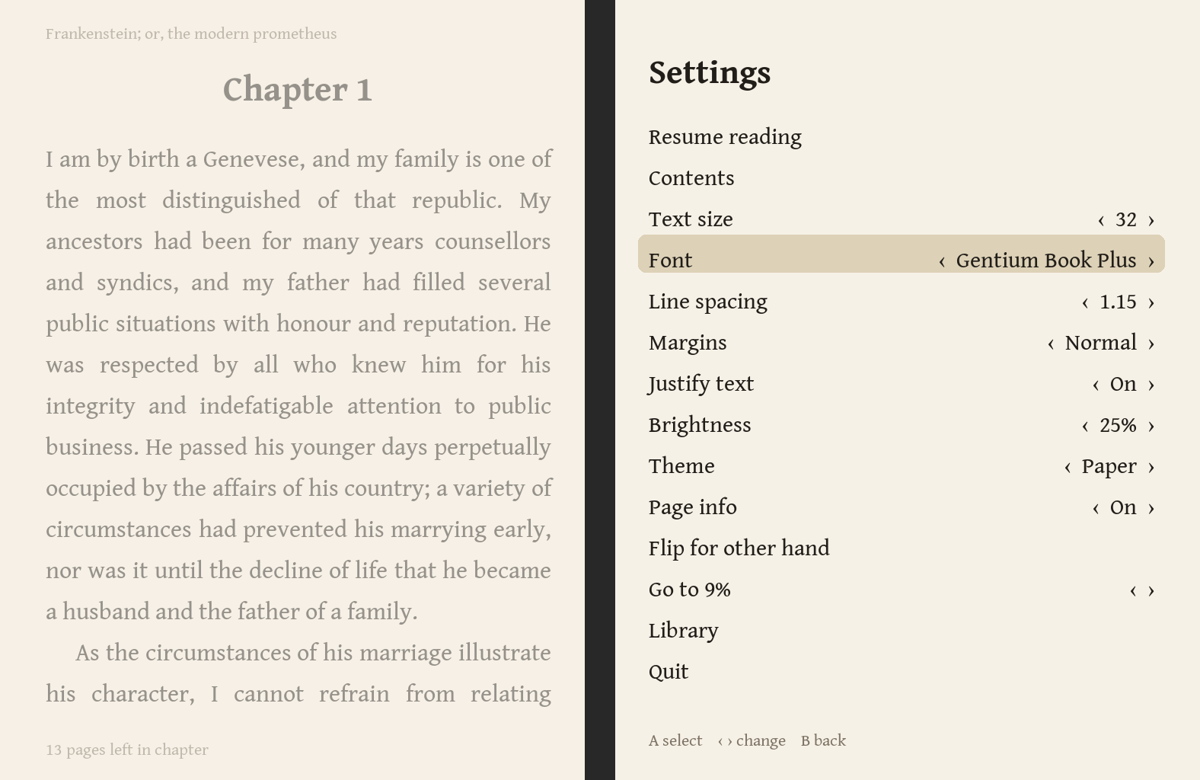
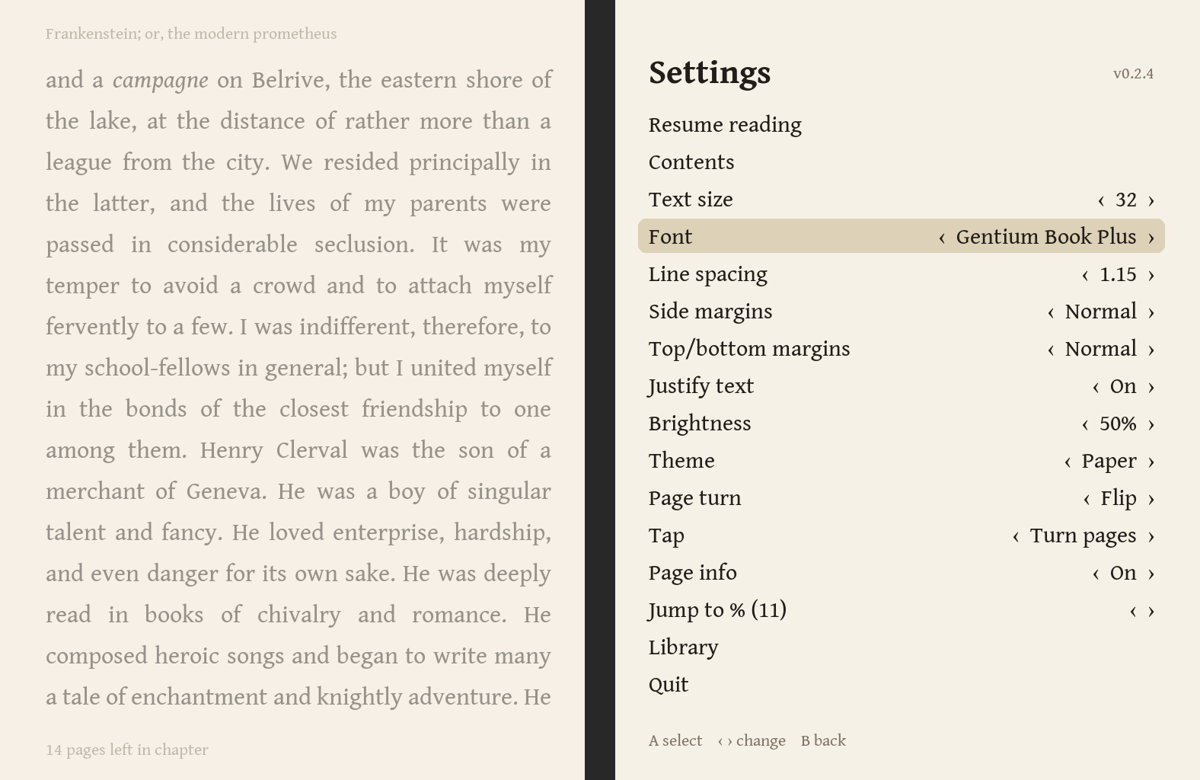
Refresh README and README.txt: accurate controls, less wordy
Rewrite both for the current controls (D-pad in menus, stick click, curved
arrow, tap default), reporting without GitHub access, and a current Settings
screenshot. Drop the old Book Reader note. Add keyprobe stubs for desktop runs.

diff --git a/README.md b/README.md
@@ -1,85 +1,65 @@
 # eReaderDS for the RG DS Plus
 
-A two-page ebook reader for the **Anbernic RG DS Plus**. Turn the device
-sideways, like an open book, and each screen shows one page.
+A two-page ebook reader for the **Anbernic RG DS Plus**. Hold the device
+sideways like an open book, and each screen shows one page.
 
 ![Reading, held sideways](docs/screenshots/reading.png)
 
-> **Made for the RG DS Plus on its stock firmware**, the Linux system it
-> ships with. It isn't for the original RG DS (640×480 screens), and it isn't
-> for custom firmware such as ROCKNIX or KNULLI.
-
+> **For the RG DS Plus on its stock firmware only.** It isn't for the original
+> RG DS or for custom firmware such as ROCKNIX or KNULLI.
+>
 > **This is a test release.** If something goes wrong, please
-> [report it](#reporting-problems). It only takes a minute.
+> [report it](#reporting-problems).
 
 ## Install
 
-You need an RG DS Plus on its stock firmware, its SD card, and any computer
-(Windows, Mac or Linux).
-
-1. **Download** `eReaderDS-vX.Y.Z.zip` from the
+1. Download `eReaderDS-vX.Y.Z.zip` from the
    [latest release](https://github.com/casualducko/eReaderDS-beta/releases/latest)
-   and unzip it on your computer.
-2. **Copy two items onto the card.** Open the unzipped `Ports` folder. It
-   contains `eReaderDS.sh` and a `eReaderDS` folder. Copy both into the
-   `Ports` folder on the SD card, next to your other ports.
-3. **Add books**: copy `.epub` or `.txt` files into the card's `Ebook` folder.
-4. Put the card back, then open **Ports → eReaderDS** on the device.
+   (or use the zip you were sent) and unzip it on your computer.
+2. Open the unzipped `Ports` folder and copy **`eReaderDS.sh`** and the
+   **`eReaderDS`** folder into the `Ports` folder on the SD card.
+3. Copy `.epub` or `.txt` books into the card's `Ebook` folder.
+4. On the device, open **Ports → eReaderDS**.
 
-To **update**, copy the two items from a newer release the same way and
-replace the old ones when asked. Your settings, reading positions and fonts
-are kept: they live in the `Ebook` folder (`Ebook/.ereaderds` and
-`Ebook/Fonts`), which the download never touches.
+**Updating:** copy the two items from a newer zip the same way, replacing the
+old ones. Your settings, reading positions and fonts are kept.
 
-> **Used "Book Reader" (v0.1.x)?** It's now called eReaderDS. Install it as
-> above, then delete `Ports/Book Reader.sh` and `Ports/BookReader` from the
-> card. Your settings and reading positions carry over automatically.
+> Copy the two items, not the whole `Ports` folder: on a Mac, replacing
+> `Ports` would delete your other ports.
 
-> Don't drag the whole `Ports` folder onto the card: on a Mac, choosing
-> **Replace** would remove your other ports.
+## Controls
 
-## Using it
+Hold it turned counter-clockwise: the top screen is the left page, and the
+buttons are under your right hand. Directions below are as you hold it.
 
-**Hold it** turned counter-clockwise: the top screen is the left page and the
-buttons are under your right hand.
-
-| Button | Reading | In menus |
+| Button | Reading | Menus |
 |---|---|---|
-| **R** or D-pad forward | Next two pages | Change a setting |
-| **L** or D-pad back | Previous two pages | Change a setting |
-| **R2 / L2** | Next / previous chapter | |
-| **Y** | Contents | |
-| **Start**, **Select**, **X** or **B** | Settings | Back |
-| **↩ button** (right of the Anbernic button) | Settings | Close Settings |
-| **A**, or pressing the stick in | | Select |
-| **Menu** (home) | Quit | Quit |
+| D-pad | Turn pages (right/down forward, left/up back) | Up/down move; left/right change a value (or move, on rows without one) |
+| R / L | Next / previous pages | Change a value |
+| R2 / L2 | Next / previous chapter | |
+| A, or press the stick in | | Select |
+| B | Settings | Back |
+| Start, Select, X, or the ↩ button | Settings | Close |
+| Y | Contents | |
+| Menu (Anbernic button) | Quit | Quit |
 
-The D-pad follows the way you're holding it: forward means right or down, as
-you see it. The **analog stick** works like the D-pad, one push per press;
-while reading, only left/right (as held) turn pages.
+The **analog stick** works like the D-pad. While reading, only its left/right
+turn pages.
 
-**Touch** (the bottom screen):
-
-- **Swipe** left or right to turn pages.
-- **Slide** up or down to change brightness.
-- **Tap** the right half of the page to go forward, the left half to go back.
-  Prefer taps to open Settings? Set **Settings → Tap** to **Open menu**.
+**Touch** (bottom screen): swipe left/right to turn pages, and slide up/down
+for brightness. Tapping the right or left half turns pages forward or back.
+To make a tap open Settings instead, use **Settings → Tap**.
 
 ## Features
 
-- Two-page spreads with a 3D page-flip animation (or fade, or off)
-- EPUB and plain text, with italics, bold, headings, images, covers and the
-  book's contents
-- Book-style layout: justified text, indents, and chapters that start on a
-  new page
-- Library with covers and progress. Your place in every book is saved, and
-  the last book reopens on launch
-- Settings: text size, font, line spacing, side and top/bottom margins,
-  justification, brightness, what a tap does, page info, and jump to %
-- Eleven themes: Paper, White, Sepia, Solarized, E-ink (grayscale, 16 gray
-  levels and a speckled paper grain), Stone, Sage, Dusk, Night, Amber, Black
-- Ten built-in fonts (serif, sans-serif and OpenDyslexic), plus your own
-- Battery-friendly: it sleeps between button presses
+- Two-page spreads with a page-flip animation (or fade, or none)
+- EPUB and plain text, with italics, headings, images, covers and contents
+- Justified text, indents, and each chapter starting on a new page
+- Library with covers and progress; your place in every book is saved
+- Text size, line spacing, margins, brightness and page-info settings
+- 11 themes, including E-ink (grayscale, with paper grain), Night and Amber
+- 10 built-in fonts, plus your own
+- Only redraws when something changes, to save battery
 
 | Library | Contents |
 |---|---|
@@ -91,79 +71,66 @@ while reading, only left/right (as held) turn pages.
 
 *Screenshots use public-domain books from Project Gutenberg.*
 
-## Your own fonts
+## Fonts
 
-Copy `.ttf` or `.otf` files into `Ebook/Fonts` on the SD card (the reader
-creates this folder the first time it runs), then pick them in
-**Settings → Font**. A family's regular, italic and bold files are grouped
-together automatically. Use static fonts: a variable font (with `[wght]` in
-its file name) only shows its default weight.
+**Built in:** Gentium Book Plus (default), Literata, Charis SIL, Source Serif
+4, Crimson Text and Bitter (serif); Atkinson Hyperlegible Next, Inter and
+Lexend (sans-serif); and OpenDyslexic.
 
-Built in:
-
-| Serif | Sans-serif | Accessibility |
-|---|---|---|
-| Gentium Book Plus (default) | Atkinson Hyperlegible Next | OpenDyslexic |
-| Literata | Inter | |
-| Charis SIL | Lexend | |
-| Source Serif 4 | | |
-| Crimson Text | | |
-| Bitter | | |
+**Your own:** copy `.ttf` or `.otf` files into `Ebook/Fonts` on the SD card,
+then choose them in **Settings → Font**. Regular, italic and bold files of a
+family are grouped automatically. Use static fonts: variable fonts (with
+`[wght]` in the name) only show one weight.
 
 ## Troubleshooting
 
 | Problem | Try this |
 |---|---|
-| **eReaderDS isn't in the Ports menu** | Check that `Ports/eReaderDS.sh` and the `Ports/eReaderDS` folder are at the top level of the card, not inside another folder. |
-| **Black screen, or it closes right away** | Look at `Ports/eReaderDS/log.txt` on the card and include it in a [bug report](#reporting-problems). |
-| **"No books found"** | Books go in the `Ebook` folder at the top level of the card, as `.epub` or `.txt`. |
-| **A book won't open or looks wrong** | Some EPUBs use unusual formatting. DRM-protected books, PDF and MOBI aren't supported. |
-| **Pages are upside down** | Turn the device the other way: counter-clockwise, with the buttons on the right. |
-| **Screen too dim after leaving** | The reader restores your normal brightness when it quits normally. If it crashed, change brightness in the system menu. |
+| Not in the Ports menu | `eReaderDS.sh` and the `eReaderDS` folder must be directly inside `Ports`. |
+| Black screen, or it closes at once | Send `Ports/eReaderDS/log.txt` with a [report](#reporting-problems). |
+| "No books found" | Put `.epub` or `.txt` files in the `Ebook` folder at the top of the card. |
+| A book won't open or looks wrong | Unusual EPUBs may not display well. DRM-protected books, PDF and MOBI aren't supported. |
+| Pages upside down | Turn the device the other way, with the buttons on your right. |
+| Screen stays dim after quitting | Normal brightness comes back when the app quits. After a crash, set it in the system menu. |
 
 ## Reporting problems
 
-[Open a bug report](https://github.com/casualducko/eReaderDS-beta/issues/new?template=bug_report.yml).
-It asks for:
+Tell whoever sent you eReaderDS, or
+[open a bug report](https://github.com/casualducko/eReaderDS-beta/issues/new?template=bug_report.yml)
+if you have access to this repository. Include:
 
-- The **version**, shown at the top of Settings and at the bottom of the
-  Library (for example `v0.1.0`).
-- **What happened**. Photos of the screens help a lot.
-- The contents of **`Ports/eReaderDS/log.txt`** from the SD card,
-  copied right after the problem.
+- The **version**, shown at the top of Settings (for example `v0.2.4`)
+- **What happened**, with a photo of the screens if you can
+- **`Ports/eReaderDS/log.txt`** from the SD card, copied right after the
+  problem
 
 ## Known limitations
 
-- **Touch** is on the bottom screen only, so it works on whichever page that
-  screen shows.
-- **"Pages left in chapter"** can undercount when a chapter spans several
-  files inside the EPUB.
-- **Formatting** support is basic: tables, fixed-layout EPUBs, PDF, MOBI and
-  DRM-protected books aren't supported.
-- **RG DS Plus, stock firmware only.** The original RG DS and custom
-  firmware (ROCKNIX, KNULLI and others) aren't supported: they use different
-  screens, folders or display setups.
+- Touch works only on the bottom screen.
+- "Pages left in chapter" can be too low when a chapter spans several files
+  in the EPUB.
+- No tables, fixed-layout EPUBs, PDF, MOBI or DRM-protected books.
+- RG DS Plus on stock firmware only.
 
 ## For developers
 
-See [docs/DEVELOPING.md](docs/DEVELOPING.md) for how it works, running it on a
-computer, installing from a clone, and making releases.
+See [docs/DEVELOPING.md](docs/DEVELOPING.md).
 
 ## Credits
 
-- Fonts, all under the SIL Open Font License 1.1 (license files are included
-  in `app/fonts/` and in the download's `LICENSES` folder):
-  - [Gentium Book Plus](https://software.sil.org/gentium/) and
-    [Charis SIL](https://software.sil.org/charis/) by SIL International
-  - [Literata](https://github.com/googlefonts/literata) by TypeTogether for Google
-  - [Source Serif 4](https://github.com/adobe-fonts/source-serif) by Adobe
-  - [Crimson Text](https://github.com/googlefonts/Crimson) by Sebastian Kosch
-  - [Bitter](https://github.com/solmatas/BitterPro) by Huerta Tipográfica
-    (static Regular/Bold instances generated from the variable font)
-  - [Atkinson Hyperlegible Next](https://github.com/googlefonts/atkinson-hyperlegible-next)
-    by the Braille Institute (static instances generated from the variable font)
-  - [Inter](https://github.com/rsms/inter) by Rasmus Andersson
-  - [Lexend](https://github.com/googlefonts/lexend) by the Lexend Project
-  - [OpenDyslexic](https://github.com/antijingoist/opendyslexic) by Abbie Gonzalez
+- Fonts, all under the SIL Open Font License 1.1 (license files are in
+  `app/fonts/` and in the download's `LICENSES` folder):
+  [Gentium Book Plus](https://software.sil.org/gentium/) and
+  [Charis SIL](https://software.sil.org/charis/) (SIL International),
+  [Literata](https://github.com/googlefonts/literata) (TypeTogether),
+  [Source Serif 4](https://github.com/adobe-fonts/source-serif) (Adobe),
+  [Crimson Text](https://github.com/googlefonts/Crimson) (Sebastian Kosch),
+  [Bitter](https://github.com/solmatas/BitterPro) (Huerta Tipográfica),
+  [Atkinson Hyperlegible Next](https://github.com/googlefonts/atkinson-hyperlegible-next)
+  (Braille Institute), [Inter](https://github.com/rsms/inter) (Rasmus Andersson),
+  [Lexend](https://github.com/googlefonts/lexend) (Lexend Project) and
+  [OpenDyslexic](https://github.com/antijingoist/opendyslexic) (Abbie Gonzalez).
+  Bitter and Atkinson Hyperlegible Next are static instances generated from
+  their variable fonts.
 - Engine: [LÖVE](https://love2d.org) 11.5 (zlib license), from the PortMaster
   aarch64 runtime. See [runtime/NOTICES.md](runtime/NOTICES.md).

diff --git a/CHANGELOG.md b/CHANGELOG.md
@@ -1,5 +1,10 @@
 # Changelog
 
+## Unreleased
+
+- Shorter, up-to-date README and in-download README.txt; problem reports can
+  go to whoever sent you the zip.
+
 ## v0.2.4
 
 - **Font previews:** the Font setting shows each font's name in that font.
